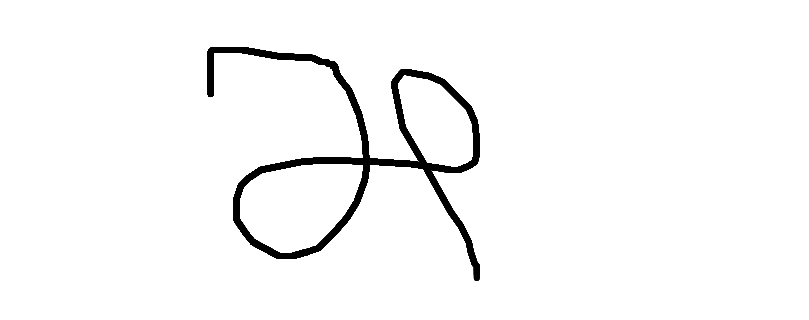
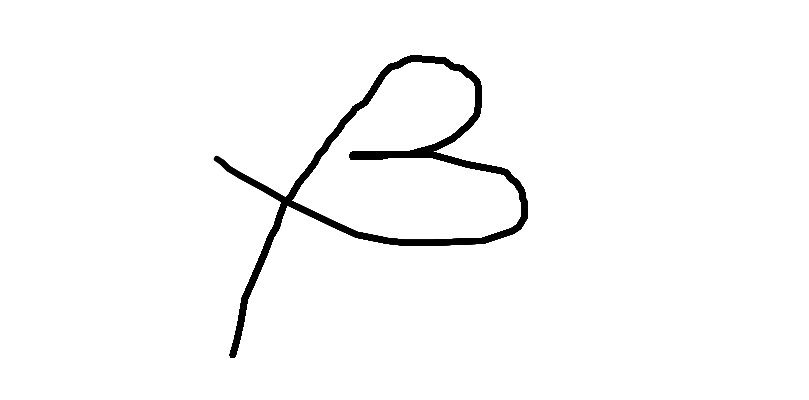
superadmin, scroll, enter

Changed region(s): [[0.2472, 0.125, 0.6799, 0.9062], [0.5562, 0.6562, 0.618, 0.875]]

diff --git a/SistemBeritaAcara.Web/Program.cs b/SistemBeritaAcara.Web/Program.cs
@@ -140,6 +140,12 @@ using (var preScope = builder.Services.BuildServiceProvider().CreateScope())
                 FOREIGN KEY ([MenyerahkanId]) REFERENCES [Users]([Id]) ON DELETE NO ACTION
         END
 
+        -- Tambah kolom IsSuperAdmin ke Users jika belum ada
+        IF NOT EXISTS (SELECT 1 FROM sys.columns WHERE object_id = OBJECT_ID('Users') AND name = 'IsSuperAdmin')
+        BEGIN
+            ALTER TABLE [Users] ADD [IsSuperAdmin] BIT NOT NULL DEFAULT 0
+        END
+
         -- Hapus kolom BeritaAcaraId dari ApprovalToken yang di-generate otomatis oleh EF Core sebelumnya
         IF EXISTS (SELECT 1 FROM sys.columns WHERE Name = N'BeritaAcaraId' AND Object_ID = Object_ID(N'ApprovalToken'))
         BEGIN
@@ -188,6 +194,20 @@ using (var preScope = builder.Services.BuildServiceProvider().CreateScope())
     {
         if (!string.IsNullOrEmpty(u.Role) && !await userManager.IsInRoleAsync(u, u.Role))
             await userManager.AddToRoleAsync(u, u.Role);
+    }
+
+    // Tandai AdminIT pertama sebagai SuperAdmin jika belum ada SuperAdmin
+    if (!db.Users.Any(u => u.IsSuperAdmin))
+    {
+        var firstAdminIT = db.Users
+            .Where(u => u.Role == "AdminIT" && !u.IsDeleted && u.EmailConfirmed)
+            .OrderBy(u => u.Id)
+            .FirstOrDefault();
+        if (firstAdminIT != null)
+        {
+            firstAdminIT.IsSuperAdmin = true;
+            await db.SaveChangesAsync();
+        }
     }
 }
 

diff --git a/SistemBeritaAcara.Core/Entities/ApplicationUser.cs b/SistemBeritaAcara.Core/Entities/ApplicationUser.cs
@@ -10,6 +10,7 @@ public class ApplicationUser : IdentityUser<int>
     public string? TtdPath { get; set; }
     public bool IsDeleted { get; set; } = false;
     public DateTime? DeletedAt { get; set; }
+    public bool IsSuperAdmin { get; set; } = false;
     public int? PegawaiId { get; set; }
     public string? ProfilePicPath { get; set; }
 
